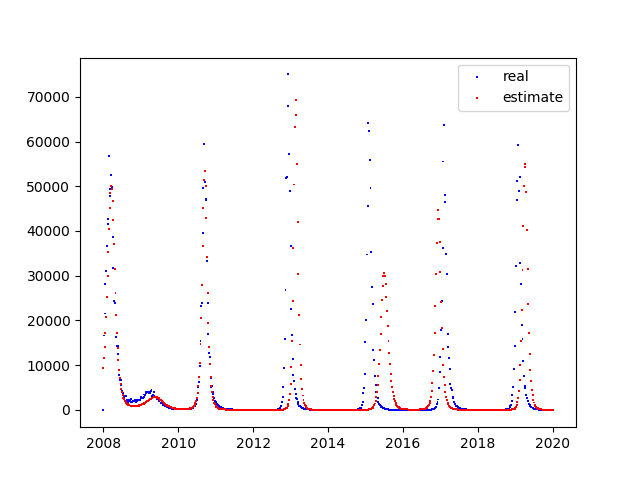
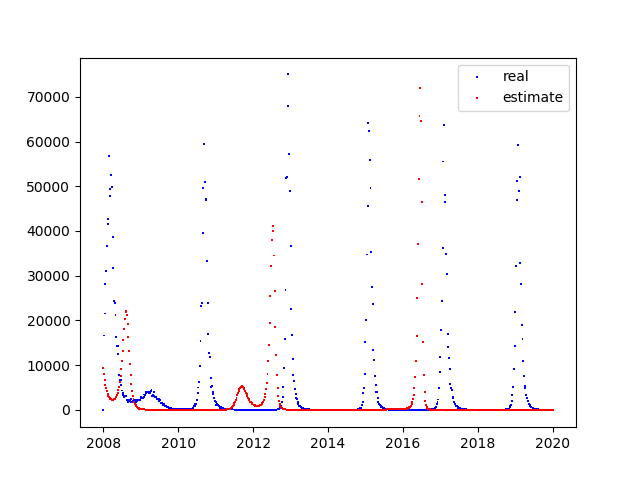
50->20

Changed region(s): [[0.1562, 0.8125, 0.5, 0.875], [0.5625, 0.8438, 0.7188, 0.875], [0.8125, 0.8438, 0.8438, 0.875]]

diff --git a/SIR-MCMC.py b/SIR-MCMC.py
@@ -9,8 +9,8 @@ fig = r'simulation'
 START_YEAR = 2008
 END_YEAR=2020
 dt = 1/52
-gamma = 50
-lastGamma = 50 # 22
+gamma = 0
+lastGamma =50 # 22
 Ratio=0
 GAMMA=[]
 
@@ -19,7 +19,10 @@ reportRate=0.2
 global sigma
 sigma=2.5
 sigma0=sigma
-E=0.5   # 我之前不能收敛是因为这个调得太小了
+lastSigma=sigma
+E=2   # 我之前不能收敛是因为这个调得太小了
+E0=E
+lastE=E
 Continue=0
 MIN_CONTINUE=100
 
@@ -187,8 +190,9 @@ for cnt_step in range(MAX_PACE):
     if ignore is False and random.random() < Ratio:
         if abs(gamma - lastGamma) < E:
             Continue = Continue + 1
-            if Continue % 5 == 0:  # 5 was set by hand
-                sigma = sigma / 1.1  # 1.5 was set by hand
+            if Continue % 10 == 0:  # 5 was set by hand
+                E=E/1.1
+                sigma = sigma / 1.1  # 1.1 was set by hand
                 # need to estimate again when sigma changed
                 estimate(lastGamma)
                 lastLk=get_likelihood(sigma)
@@ -199,16 +203,20 @@ for cnt_step in range(MAX_PACE):
                 break
         else:
             Continue = 0
-            # sigma=sigma0
+            sigma=lastSigma
+            E=lastE
 
         lastGamma = gamma
         lastLk=lk
         GAMMA.append(lastGamma)
         print("Accepted Ratio:", Ratio)
         print("Accepted gamma:",lastGamma)
-        print("lk:",lk)
+        # print("lk:",lk)
         if not sigma==sigma0:
             print("Sigma:",sigma)
+            print("E",E)
+            lastSigma=sigma
+            lastE=E
         # draw()
     if cnt_step % 1000 == 0:
         print("count step:", cnt_step)
